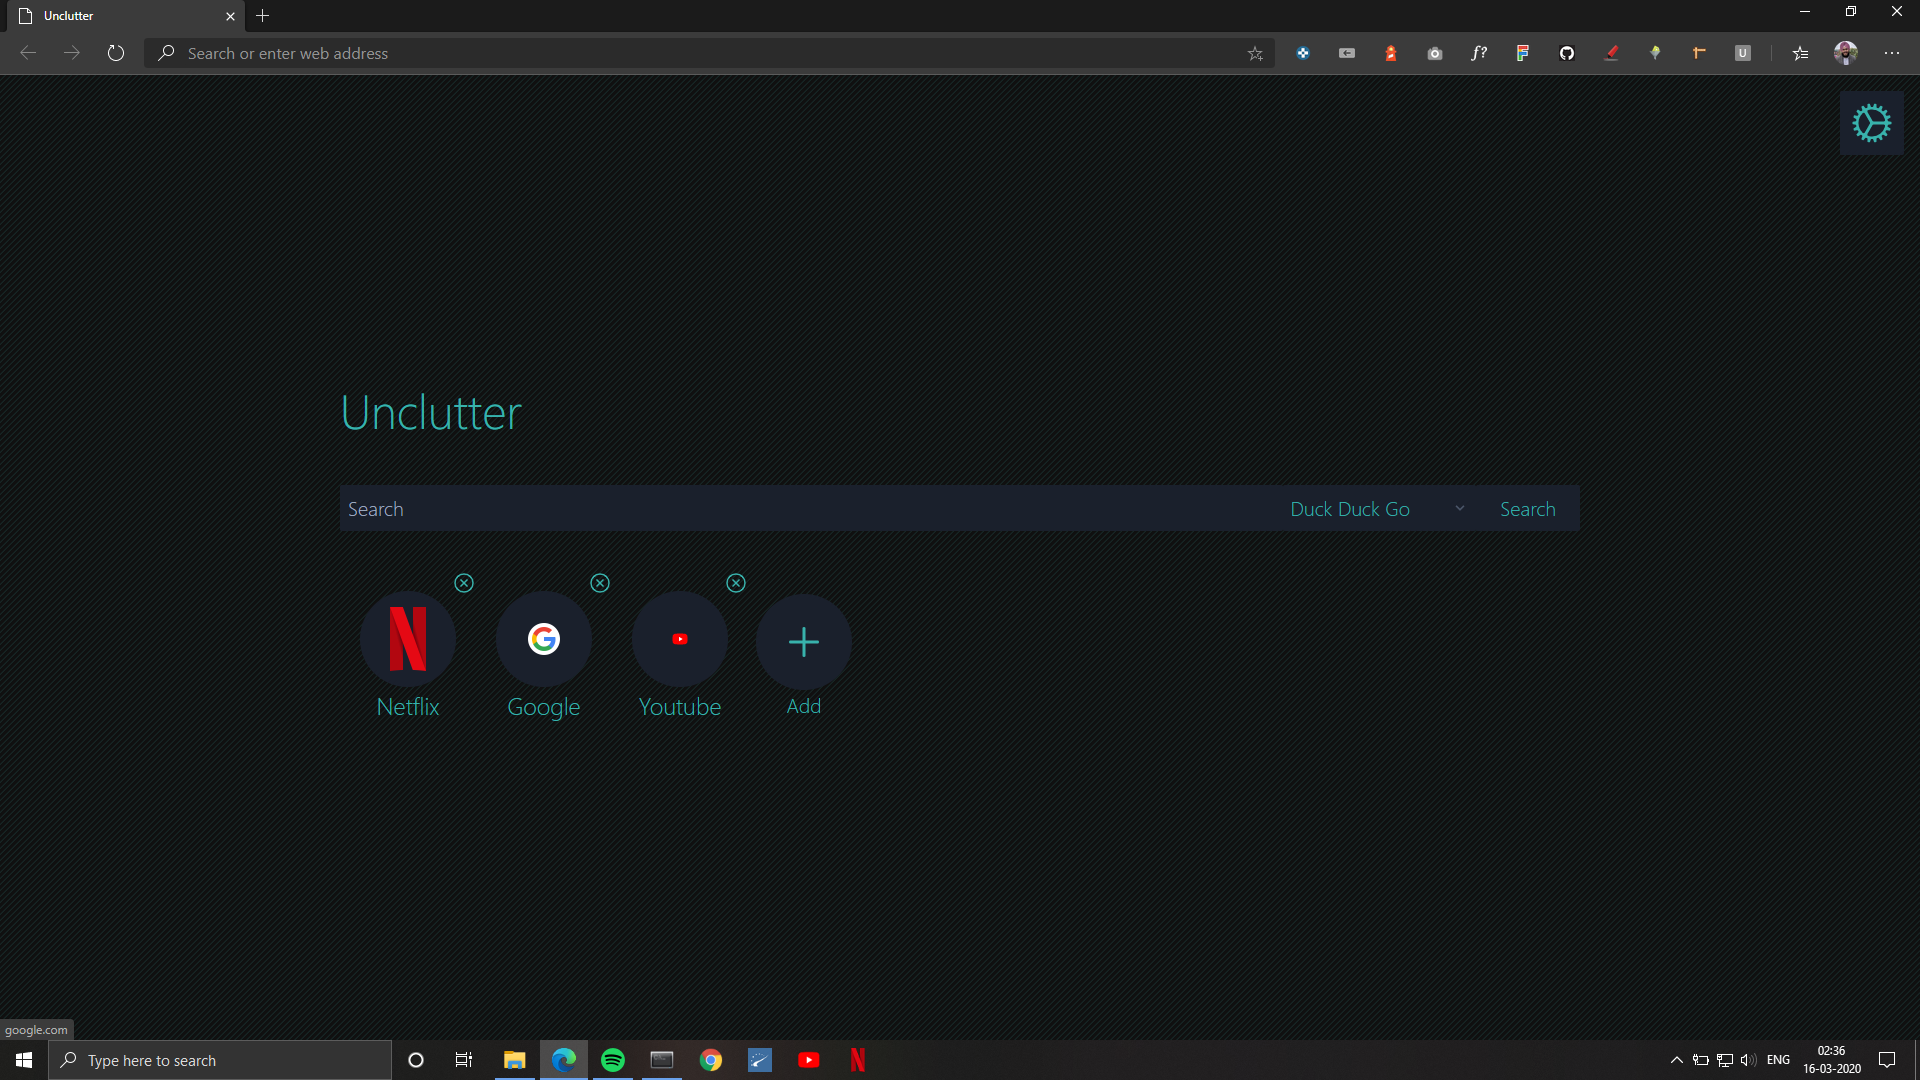
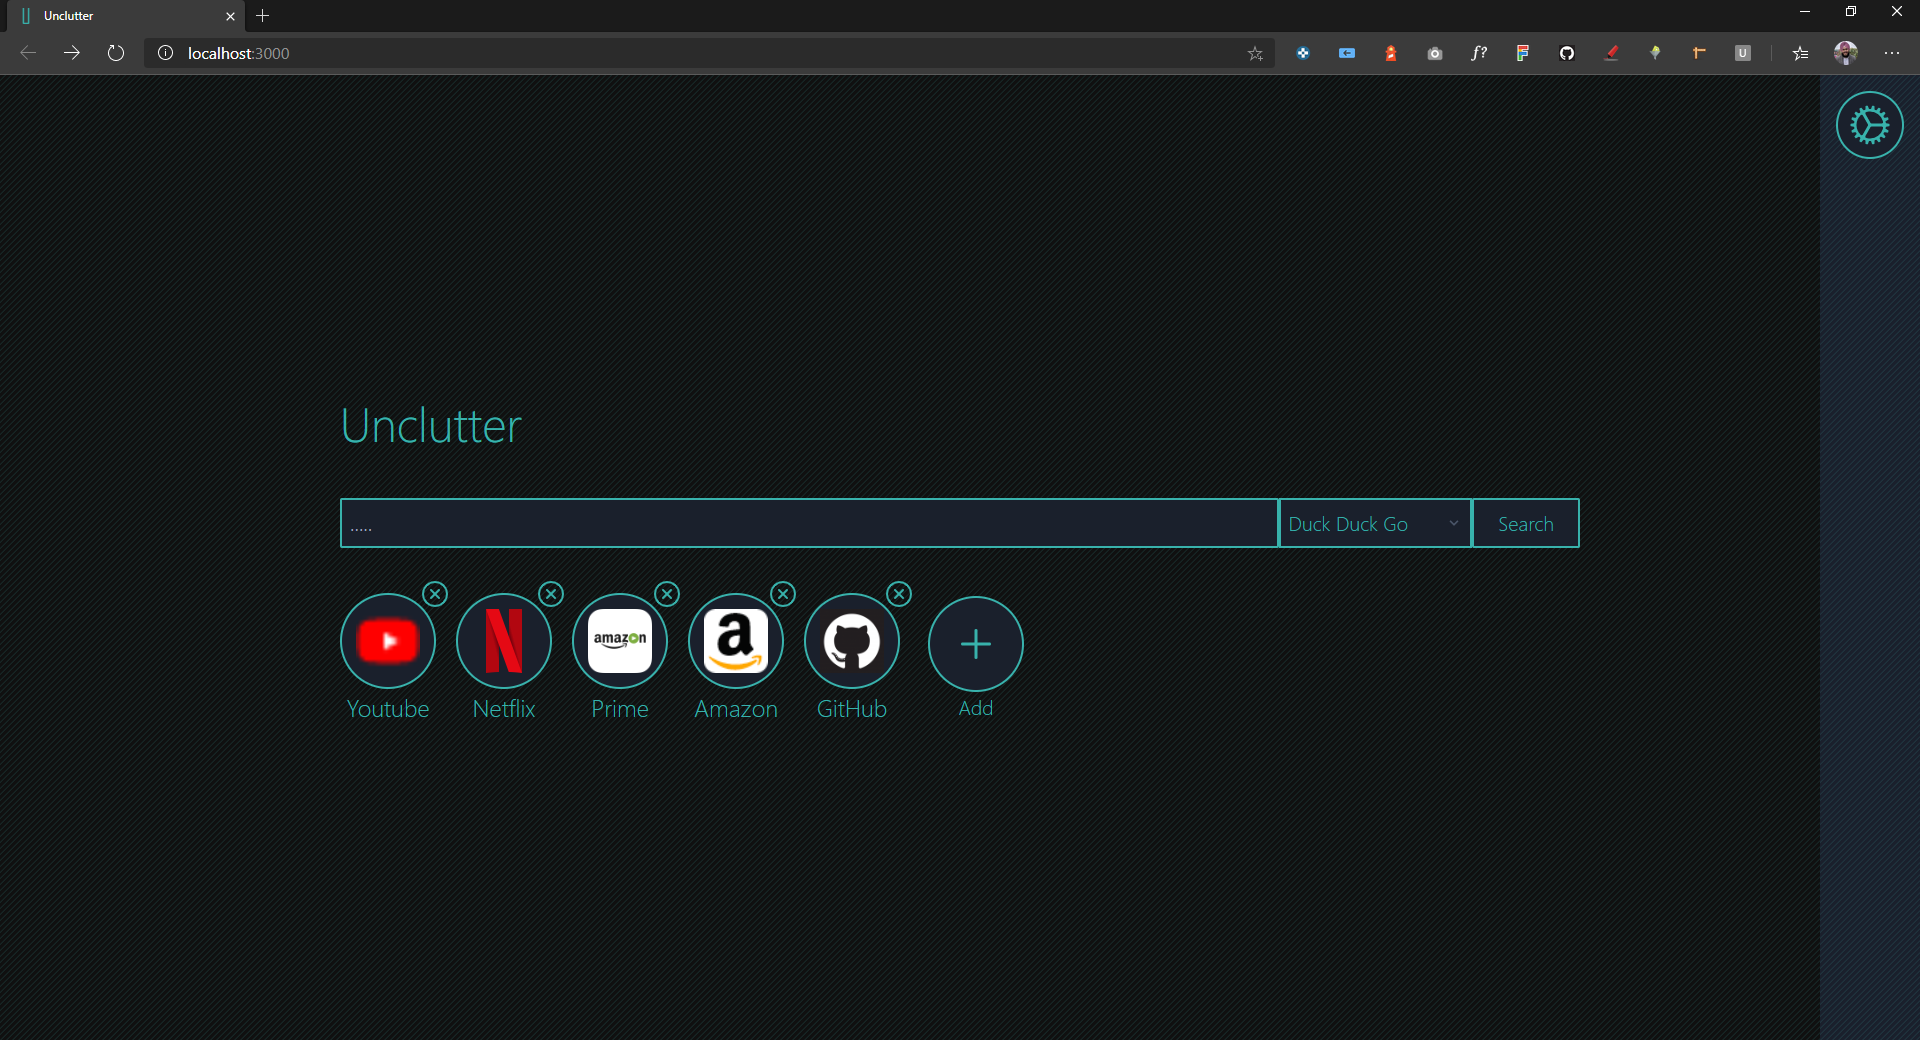
new screenshot and favico

diff --git a/public/index.html b/public/index.html
@@ -5,6 +5,8 @@
         <meta name="viewport" content="width=device-width, initial-scale=1" />
         <meta name="description" content="A clean new tab experience." />
 
+        <link rel="icon" href="%PUBLIC_URL%/favicon.ico" />
+
         <!-- Tailwind -->
         <link
             href="https://unpkg.com/tailwindcss@^1.0/dist/tailwind.min.css"
